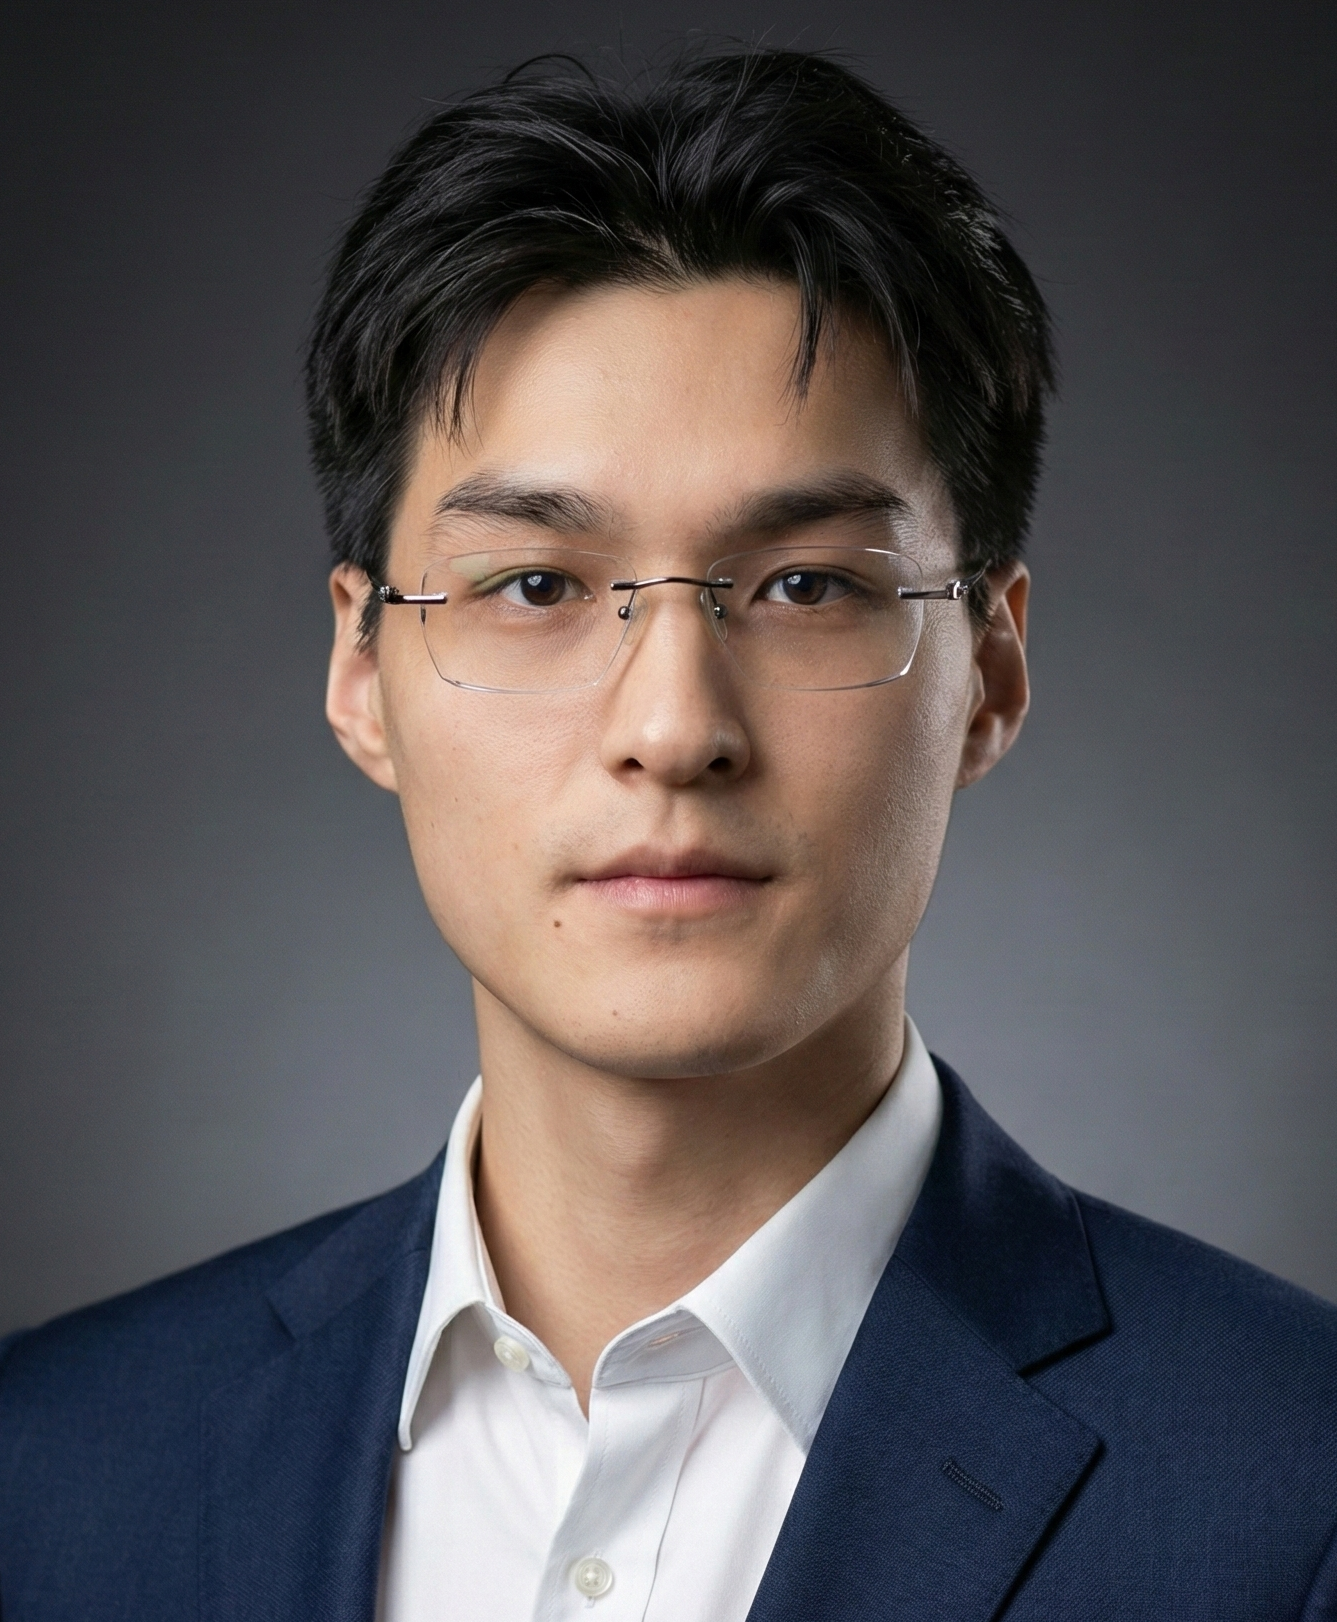
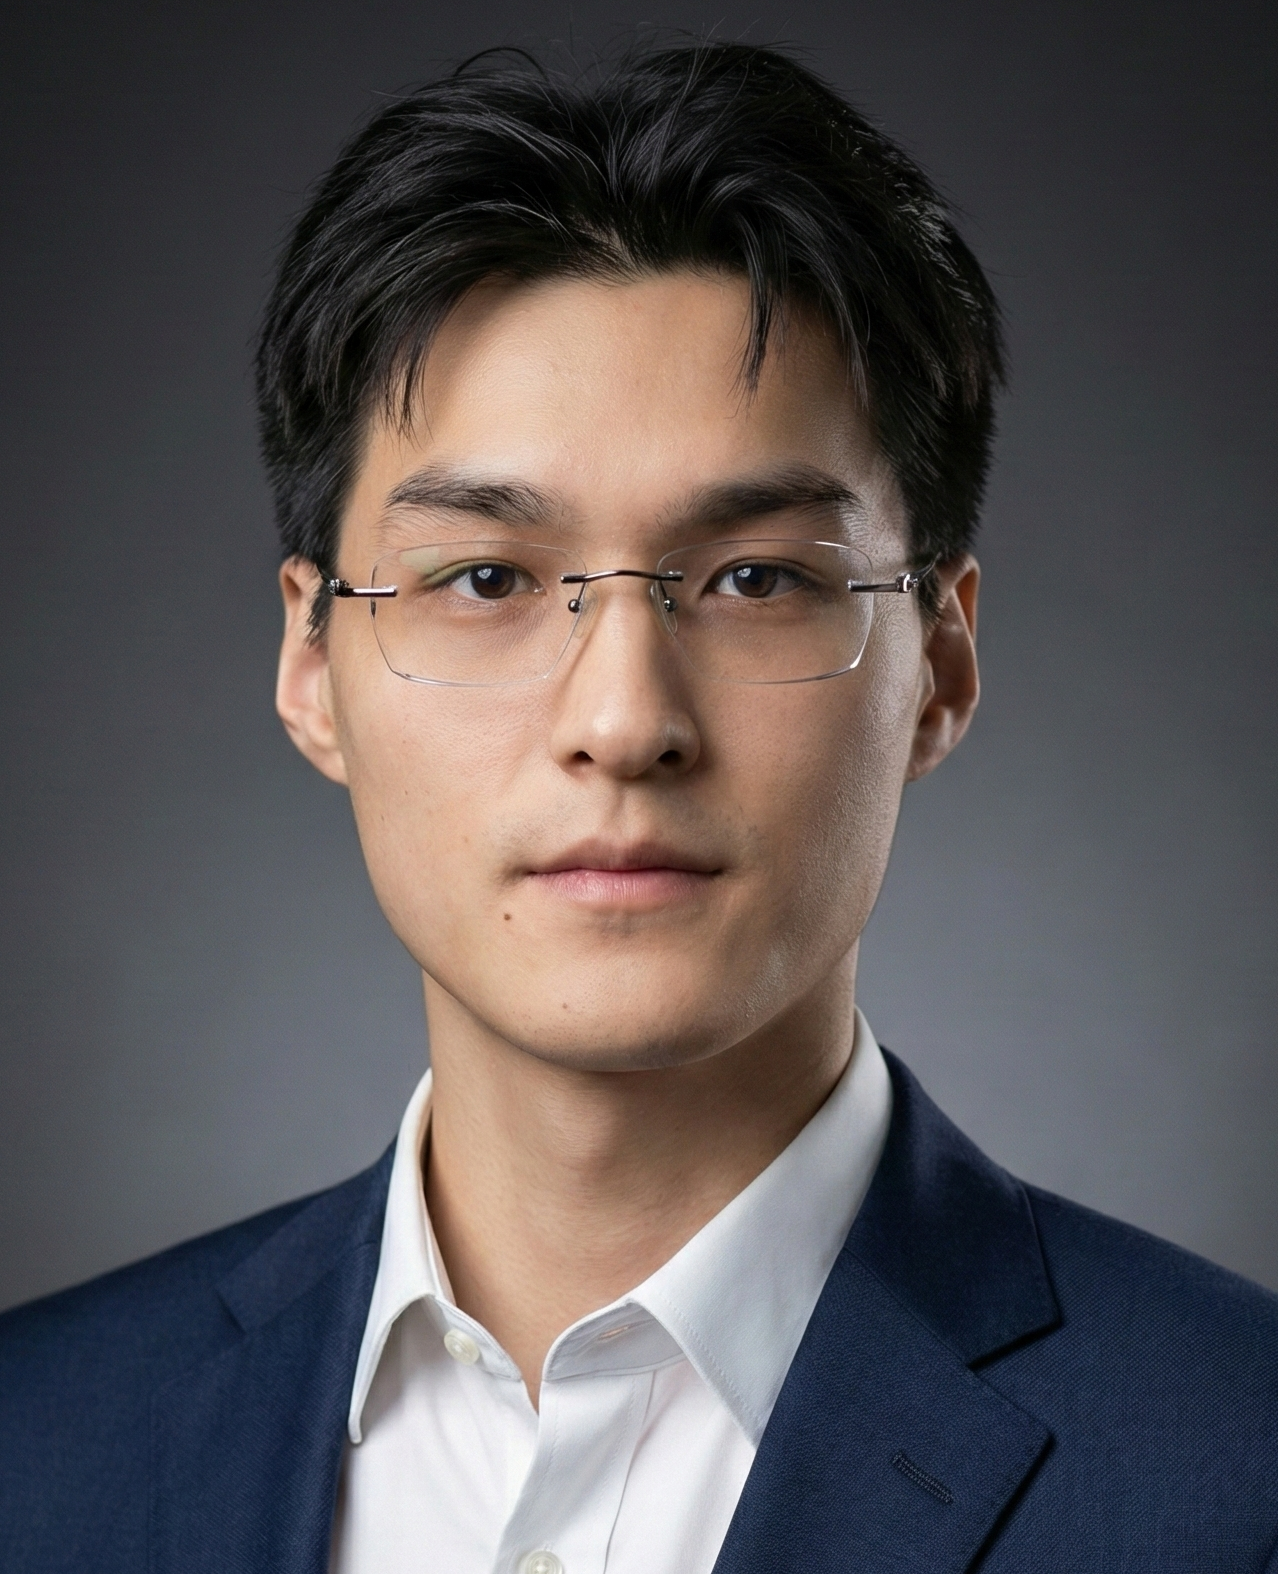
1

diff --git a/_layouts/default.html b/_layouts/default.html
@@ -38,9 +38,11 @@
         {%- if site.plainwhite.social_links.google_scholar -%}
         <a href="{{ site.plainwhite.social_links.google_scholar }}" target="_blank" rel="noopener noreferrer" aria-label="Google Scholar" title="Google Scholar">
           <li>
-            <svg class="social-icon" viewBox="0 0 24 24" role="img" aria-hidden="true">
-              <path d="M12 3 1.5 11.25 12 19.5l10.5-8.25L12 3Zm0 2.55 6.42 5.04L12 15.63l-6.42-5.04L12 5.55Z"></path>
-              <path d="M5.25 13.35v3.15c0 2.48 3.02 4.5 6.75 4.5s6.75-2.02 6.75-4.5v-3.15l-2.25 1.77v1.38c0 1.02-1.92 2.25-4.5 2.25s-4.5-1.23-4.5-2.25v-1.38l-2.25-1.77Z"></path>
+            <svg class="social-icon scholar-icon" viewBox="0 0 64 64" role="img" aria-hidden="true">
+              <path d="M0 18 31 0h33L37 18H0Z"></path>
+              <path d="M58 6h3v22h-3z"></path>
+              <rect x="56" y="24" width="7" height="24" rx="3.5"></rect>
+              <path d="M31.6 11.2c-8.2 0-14.6 6.8-14.6 17.1 0 8.6 5.5 14.8 12.5 15.8-1.8 2-2.4 3.8-2.4 6 0 7.8 7.7 13.9 16.2 13.9 8.8 0 15.2-5.2 15.2-12.2 0-5.7-3.2-9.5-8.7-12.8l-6.6-4c4.3-2.6 6.8-7.4 6.8-13.1 0-4.8-1.8-8.7-4.8-11.2H31.6Zm.6 6.1c4.5 0 7.6 4.5 7.6 11.2 0 6.2-2.8 10.2-7.3 10.2-4.6 0-7.6-4.4-7.6-11.1 0-6.3 2.9-10.3 7.3-10.3Zm2.2 32c2.3 0 4.5.5 7 1.8l3.8 2c2.2 1.2 3.1 2.4 3.1 4.1 0 2.8-3.2 4.8-8.2 4.8-5.7 0-10.1-2.7-10.1-6.4 0-2.5 1.4-4.6 4.4-6.3Z"></path>
             </svg>
           </li>
         </a>

diff --git a/_sass/plain.scss b/_sass/plain.scss
@@ -45,7 +45,7 @@ h2 {
   }
 }
 main {
-  margin: 0 56px;
+  margin: 0 32px;
   display: flex;
   height: 100%;
 
@@ -54,10 +54,10 @@ main {
     max-width: 1440px;
   }
   @media screen and (max-width: 1280px) {
-    margin: 0 48px;
+    margin: 0 28px;
   }
   @media screen and (max-width: 1024px) {
-    margin: 0 24px;
+    margin: 0 16px;
   }
 
   @media screen and (max-width: $mobileW) {
@@ -236,10 +236,10 @@ main {
 .posts,
 .post-container {
   list-style-type: none;
-  margin: 28px 16px;
+  margin: 24px 6px;
   @media screen and (max-width: $smallMobileW) {
-    margin-left: 16px;
-    margin-right: 16px;
+    margin-left: 12px;
+    margin-right: 12px;
   }
   @media screen and (max-width: $mobileW) {
     padding: 0 !important;
@@ -247,7 +247,7 @@ main {
   }
 }
 .post-container {
-  padding-left: 16px;
+  padding-left: 6px;
 }
 .post {
   font-family: "Merriweather", sans-serif;
